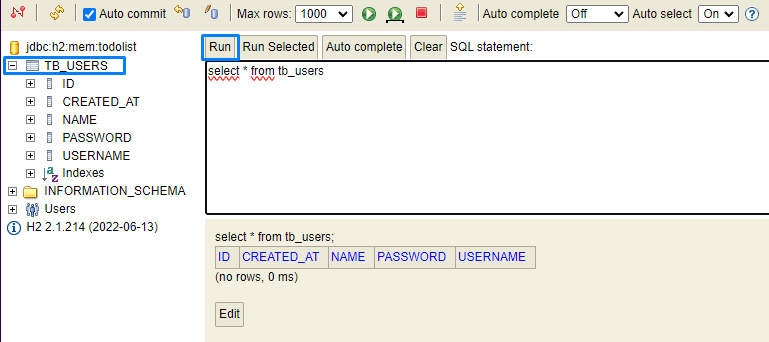
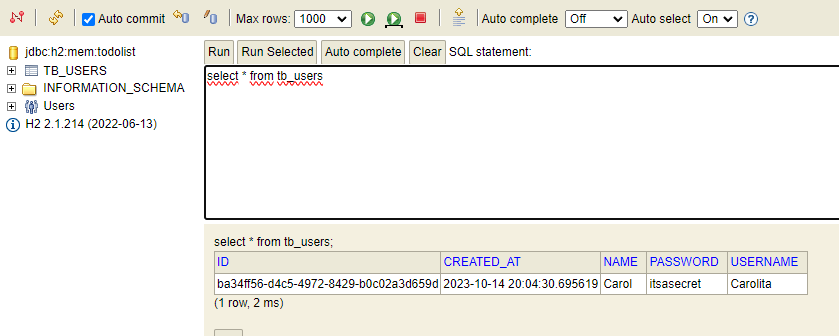
add user repository and validate username

Changed region(s): [[0.0, 0.0, 1.0, 1.0]]

diff --git a/src/main/java/br/com/carolina/todolist/users/UserController.java b/src/main/java/br/com/carolina/todolist/users/UserController.java
@@ -1,5 +1,8 @@
 package br.com.carolina.todolist.users;
 
+import org.springframework.beans.factory.annotation.Autowired;
+import org.springframework.http.HttpStatus;
+import org.springframework.http.ResponseEntity;
 import org.springframework.web.bind.annotation.PostMapping;
 import org.springframework.web.bind.annotation.RequestBody;
 import org.springframework.web.bind.annotation.RequestMapping;
@@ -9,8 +12,19 @@ import org.springframework.web.bind.annotation.RestController;
 @RequestMapping("/users")
 //http://localhost:8080/users/
 public class UserController {
+
+    @Autowired
+    private IUserRepository userRepository;
+
     @PostMapping("/")
-    public void create(@RequestBody UserModel userModel) {
-        System.out.println(userModel.getName());
+    public ResponseEntity create(@RequestBody UserModel userModel) {
+        UserModel username = this.userRepository.findByUsername(userModel.getUsername());
+
+        if(username != null) {
+            return ResponseEntity.status(HttpStatus.BAD_REQUEST).body("Usuário já existe!");
+        }
+
+        UserModel userCreated = this.userRepository.save(userModel);
+        return ResponseEntity.status(HttpStatus.CREATED).body(userCreated);
     }
 }

diff --git a/src/main/java/br/com/carolina/todolist/users/IUserRepository.java b/src/main/java/br/com/carolina/todolist/users/IUserRepository.java
@@ -1,0 +1,9 @@
+package br.com.carolina.todolist.users;
+
+import org.springframework.data.jpa.repository.JpaRepository;
+
+import java.util.UUID;
+
+public interface IUserRepository extends JpaRepository<UserModel, UUID> {
+    UserModel findByUsername(String username);
+}

diff --git a/src/main/java/br/com/carolina/todolist/users/UserModel.java b/src/main/java/br/com/carolina/todolist/users/UserModel.java
@@ -18,6 +18,7 @@ public class UserModel {
     @GeneratedValue(generator = "UUID")
     private UUID id; //https://www.uuidgenerator.net
 
+    @Column(unique = true)
     private String username;
     private String name;
     private String password;
